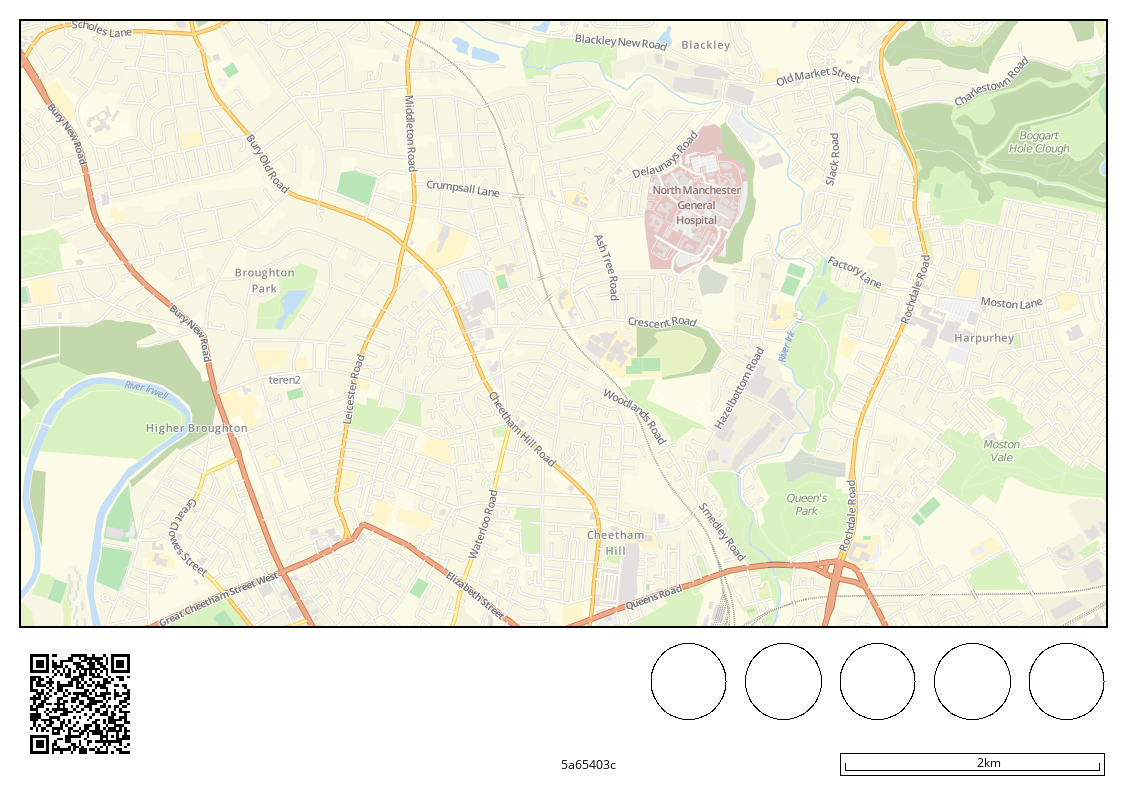
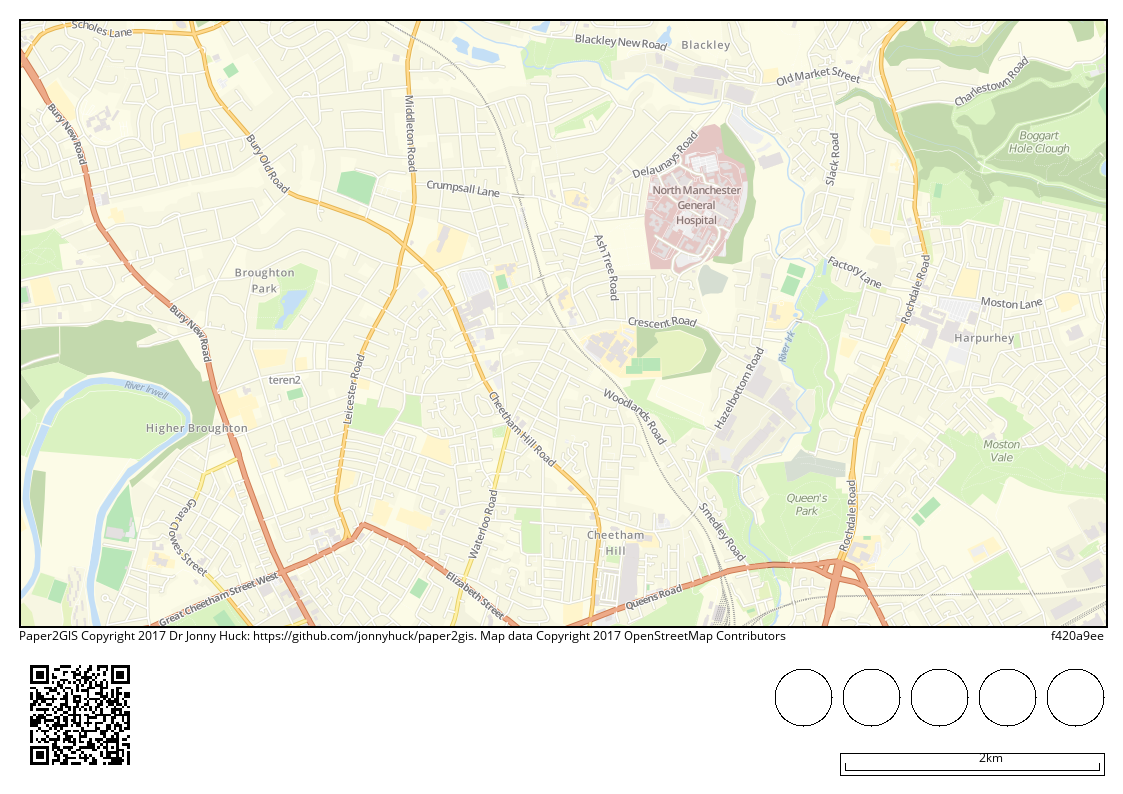
more work on map generator

diff --git a/mapgen.py b/mapgen.py
@@ -7,6 +7,7 @@ Generate maps for use with the Paper2GIS system
 # python mapgen.py -a -253416.76422779588028789 -b 7076444.70266312919557095 -c -244881.40985959535464644 -d 7080278.71288163959980011 -e 27700 -f out.png
 
 import mapnik, qrcode, argparse, uuid
+from datetime import datetime
 from scalebar import addScaleBar
 from math import ceil
 from PIL import Image, ImageOps, ImageDraw, ImageFont
@@ -17,7 +18,6 @@ def mm2px(mm, dpi=96):
 	1 inch = 25.4mm 96dpi is therefore...
 	"""
 	return int(ceil(mm * dpi / 25.4))
-
 
 '''
 qgis get bounds (convenient for testing)
@@ -66,8 +66,11 @@ qr = qrcode.QRCode(
     border=4,
 )
 
+# get unique number hex (truncate to 8 characters)
+uid = uuid.uuid4().hex[:8]
+
 # add data to qr object, 'make' and export to image
-qr.add_data(''.join(["[", blX, ",", blY, ",", trX, ",", trY, ",", epsg, "]"]))
+qr.add_data(''.join(["[", blX, ",", blY, ",", trX, ",", trY, ",", epsg, ",", uid, "]"]))
 qr.make(fit=True)
 qrcode = qr.make_image()
 
@@ -85,15 +88,32 @@ https://github.com/stekhn/blossom
 carto OSMBright/project.mml > OSMBright/style.xml
 '''
 
+'''
+SETTINGS
+'''
+
 # Page dimensions in mm
 w_mm = 297
 h_mm = 210
 
-# make the map using mapnik stylesheet
+# buffer around page in mm
+page_buffer = mm2px(5)
+
+# qr code size
+qr_size = mm2px(32)
+
+# circle diameter
+ed = 15
+
 stylesheet = 'OSMBright/style.xml'
 # stylesheet = 'OSMBright-Blossom/style.xml'
+
+'''
+'''
+
+# make the map using mapnik stylesheet
 image = 'map.png'
-m = mapnik.Map(mm2px(w_mm-10), mm2px(160))
+m = mapnik.Map(mm2px(w_mm-page_buffer*2), mm2px(160))
 mapnik.load_map(m, stylesheet)
 m.zoom_to_box(mapnik.Box2d(float(blX), float(blY), float(trX), float(trY)))
 mapnik.render_to_file(m, image)
@@ -103,38 +123,34 @@ map = ImageOps.expand(Image.open('map.png'), border=2, fill='black')
 page = Image.new('RGB', (mm2px(w_mm), mm2px(h_mm)), 'white')
 
 # put the map and the qrcode on the page
-page.paste(map, (mm2px(5), mm2px(5)))
-page.paste(qrcode.resize((mm2px(32), mm2px(32))), (mm2px(5), mm2px(170)))
+page.paste(map, (page_buffer, page_buffer))
+page.paste(qrcode.resize((qr_size, qr_size)), (page_buffer, mm2px(173)))
 
 # add some circles for dempster-shafer - get drawing context for page
 draw = ImageDraw.Draw(page)
 
 # working backwards, 5mm from edge of page
-x = 5
-
-# circle diameter
-ed = 20
+x = page_buffer
 
 # 5 iterations
 for i in xrange(5):
 	
 	# draw circles 5mm apart for each iteration
-	draw.ellipse([mm2px(w_mm-x-ed), mm2px(170), mm2px(w_mm-x), mm2px(170+ed)], fill='white', outline='black')
-	x += ed + 5
-
-# get unique number hex (truncate to 8 characters)
-uid = uuid.uuid4().hex[:8]
-
-# get the dimensions of the text
-tw, th = draw.textsize(uid)
+	draw.ellipse([mm2px(w_mm-x-ed), mm2px(177), mm2px(w_mm-x), mm2px(177+ed)], fill='white', outline='black')
+	x += ed + 3
 
 # prepare a font
 font = ImageFont.truetype('./open-sans/OpenSans-Regular.ttf', 12)
 
-# add uid text
-pw, ph = page.size
+# add attribution text
+year = str(datetime.today().year)
+attributionText = "".join(["Paper2GIS Copyright ", year, " Dr Jonny Huck: https://github.com/jonnyhuck/paper2gis. Map data Copyright ", year, " OpenStreetMap Contributors"])
+draw.text((mm2px(page_buffer), mm2px(161.5) + th), attributionText, fill='black', font=font)
 
-draw.text((pw/2, ph-mm2px(10)), uid, fill='black', font=font)
+# get the dimensions of the text
+tw, th = draw.textsize(uid, font=font)
+pw, ph = page.size
+draw.text((pw - tw - mm2px(page_buffer), mm2px(161.5) + th), uid, fill='black', font=font)
 
 # add a scalebar to the bottom left of the map
 addScaleBar(m, page, False)

diff --git a/scalebar.py b/scalebar.py
@@ -55,13 +55,13 @@ def addScaleBar(m, mapImg, left=False):
 	
 	# dimensions of the PIL image (replaces use of m.width and m.height in the GitHub version)
 	width, height = mapImg.size
-	
-	# get the dimensions of the text
-	tw, th = draw.textsize(scaleText)
-	
+
 	# prepare a font
 	font = ImageFont.truetype('./open-sans/OpenSans-Regular.ttf', 12)
-
+	
+	# get the dimensions of the text
+	tw, th = draw.textsize(scaleText, font=font)
+	
 	# set scale bar positioning parameters
 	barBuffer  = mm2px(5)	# distance from scale bar to edge of image
 	lBuffer    = 5	# distance from the line to the end of the background
@@ -108,6 +108,6 @@ def addScaleBar(m, mapImg, left=False):
 	
 		# add label
 		draw.text(( 
-			(width-lBuffer-lBuffer-pxScaleBar/2) - tw/2, 
+			(width-lBuffer-pxScaleBar/2) - tw/2, 
 			height-barBuffer-lBuffer-lBuffer-th), 
 			scaleText, fill=(0,0,0), font=font)
